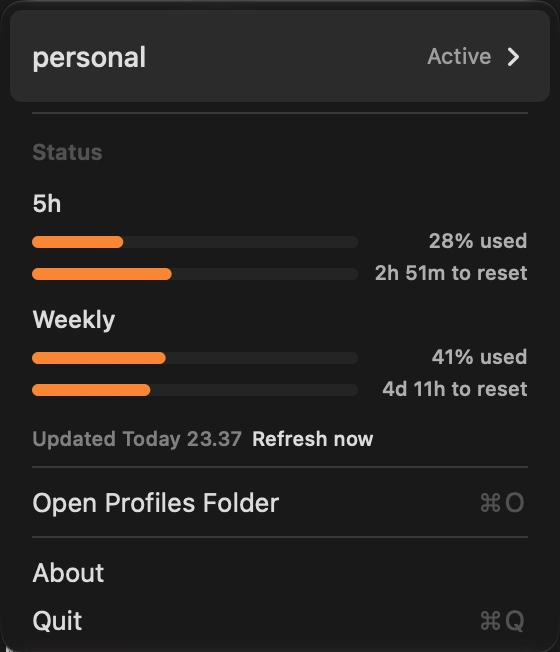
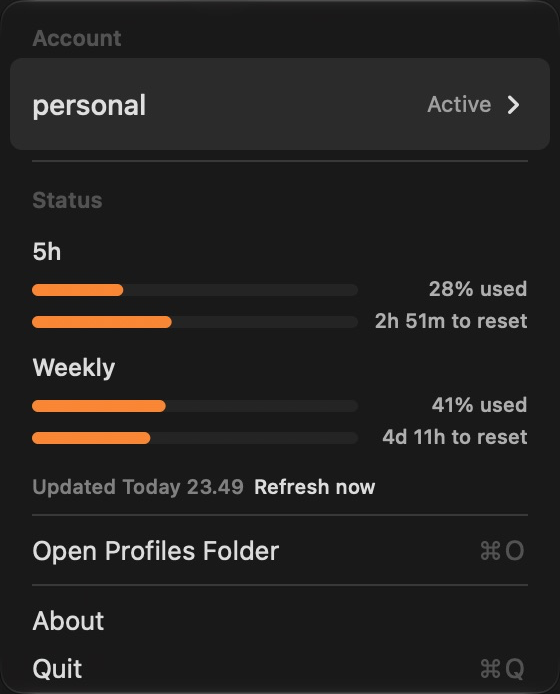
Add native Account section header

diff --git a/CodexAccountSwitcher.swift b/CodexAccountSwitcher.swift
@@ -913,23 +913,14 @@ final class AppDelegate: NSObject, NSApplicationDelegate, NSMenuDelegate {
         menu.delegate = self
         menu.autoenablesItems = false
 
+        menu.addItem(makeSectionHeader(title: "Account"))
+
         let selectorItem = NSMenuItem(title: activeProfile.isEmpty ? "Accounts" : activeProfile, action: nil, keyEquivalent: "")
         selectorItem.submenu = accountsSubmenu(profiles: profiles, activeProfile: activeProfile)
         menu.addItem(selectorItem)
 
         menu.addItem(.separator())
-        let statusHeader: NSMenuItem
-        if #available(macOS 14.0, *) {
-            statusHeader = .sectionHeader(title: "Status")
-        } else {
-            statusHeader = NSMenuItem(title: "Status", action: nil, keyEquivalent: "")
-            statusHeader.attributedTitle = NSAttributedString(string: "Status", attributes: [
-                .font: NSFont.systemFont(ofSize: NSFont.smallSystemFontSize, weight: .semibold),
-                .foregroundColor: NSColor.secondaryLabelColor
-            ])
-            statusHeader.isEnabled = false
-        }
-        menu.addItem(statusHeader)
+        menu.addItem(makeSectionHeader(title: "Status"))
 
         if !activeProfile.isEmpty {
             addUsageItems(to: menu, snapshot: usageByProfile[activeProfile])
@@ -951,6 +942,19 @@ final class AppDelegate: NSObject, NSApplicationDelegate, NSMenuDelegate {
                             width: max(80, MenuLayout.contentWidth - overflow))
         }
         return menu
+    }
+
+    private func makeSectionHeader(title: String) -> NSMenuItem {
+        if #available(macOS 14.0, *) {
+            return .sectionHeader(title: title)
+        }
+        let header = NSMenuItem(title: title, action: nil, keyEquivalent: "")
+        header.attributedTitle = NSAttributedString(string: title, attributes: [
+            .font: NSFont.systemFont(ofSize: NSFont.smallSystemFontSize, weight: .semibold),
+            .foregroundColor: NSColor.secondaryLabelColor
+        ])
+        header.isEnabled = false
+        return header
     }
 
     private func setAccountTitle(on item: NSMenuItem, profile: String, width: CGFloat) {

diff --git a/tests/test_account_menu.py b/tests/test_account_menu.py
@@ -35,7 +35,7 @@ extension AppDelegate {
 
         for profiles in [[], ["personal"], ["personal", "work"], ["personal", "work", "team", "extra", "expired"]] {
             let main = makeMenu(profiles: profiles, activeProfile: "personal")
-            let accountItem = main.items[0]
+            let accountItem = main.items[1]
             assert(accountItem.title == "personal")
             assert(accountItem.hasSubmenu, "Accounts must use native submenu tracking")
             let menu = accountItem.submenu!
@@ -72,9 +72,9 @@ extension AppDelegate {
             assert(quit.keyEquivalentModifierMask == [.command])
         }
         let emptyMain = makeMenu(profiles: [], activeProfile: "")
-        let empty = emptyMain.items[0].submenu!
-        assert(emptyMain.items[0].view == nil)
-        assert(emptyMain.items[0].title == "Accounts")
+        let empty = emptyMain.items[1].submenu!
+        assert(emptyMain.items[1].view == nil)
+        assert(emptyMain.items[1].title == "Accounts")
         assert(empty.items.filter { !$0.isHidden }.map(\.title) == ["Add account"])
         let orphan = accountsSubmenu(profiles: ["work"], activeProfile: "unsaved")
         assert(orphan.items.filter { !$0.isSeparatorItem }.map(\.title) == ["work", "Add account"])
